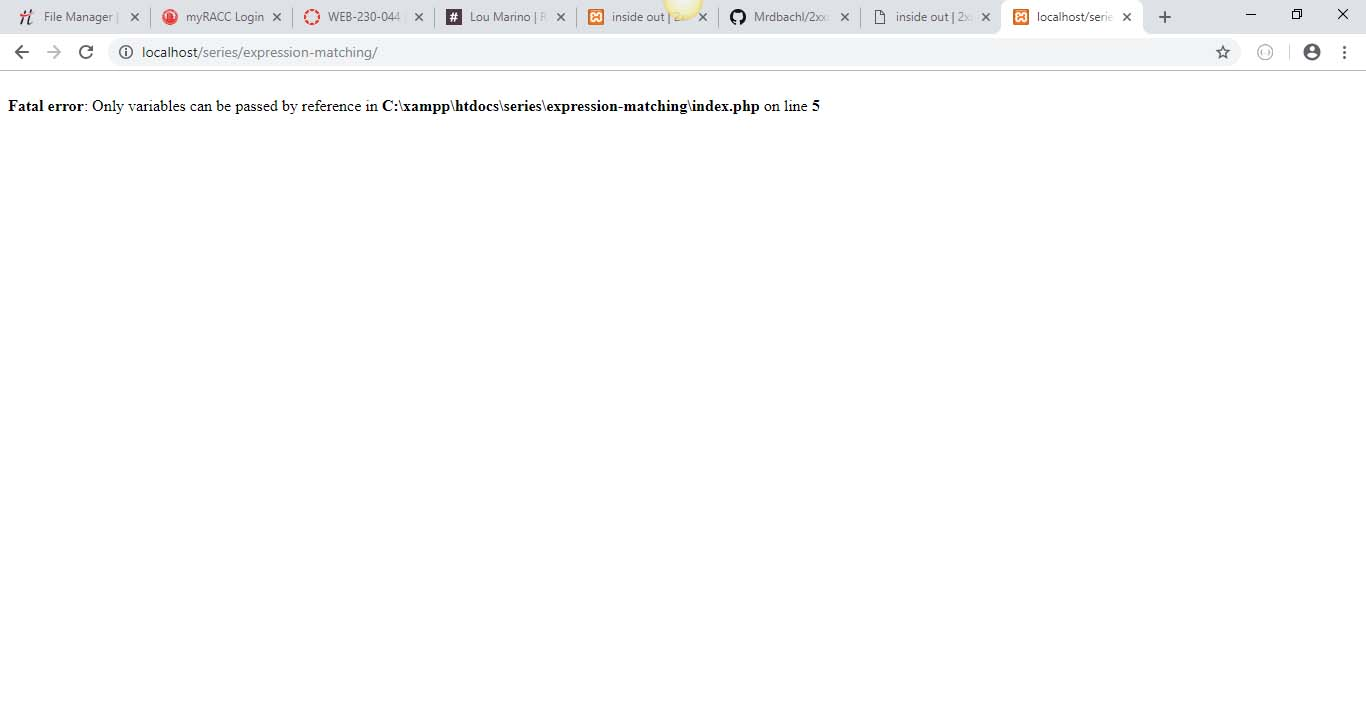
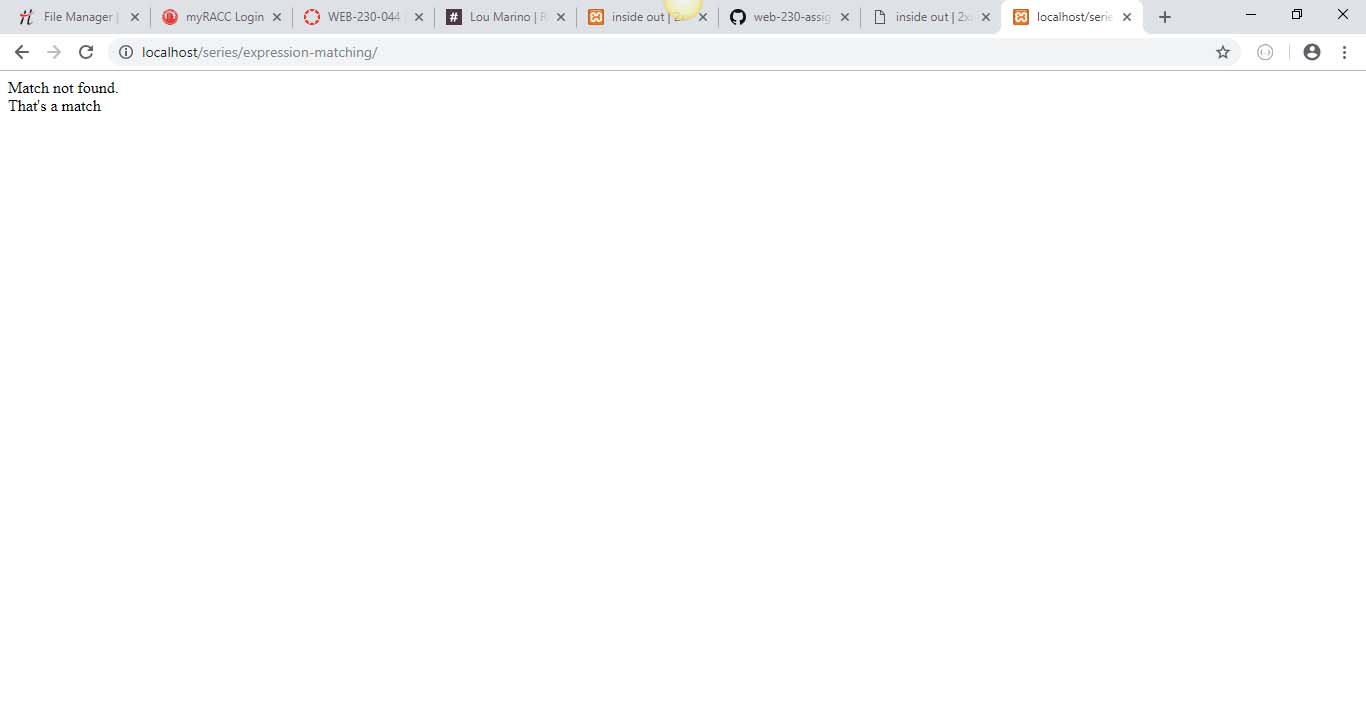
Add files via upload

Changed region(s): [[0.0, 0.1209, 0.5842, 0.1511], [0.5534, 0.0, 0.6149, 0.0302]]

diff --git a/series/expression-matching/index.php b/series/expression-matching/index.php
@@ -2,13 +2,21 @@
 $string = 'This is a string.';
 $var2 = 'This includes other words that may be used in the creation of blob programs.';
 
-if (preg_match('/blob/', $string, '/is/', $var2)) {
+if (preg_match('/blob/', $string)) {
 	
-	echo 'Match found.'; 
+	echo 'Match found.'.'<br>'; 
 } else {
-	echo 'Match not found.';
+	echo 'Match not found.'.'<br>';
 	
-	}	
+	
+	}
+
+if (preg_match('/blob/', $var2)) {
+	
+echo 'That\'s a match';
+} else {
+	echo ' No Match.';
+}	
 	
 
 
